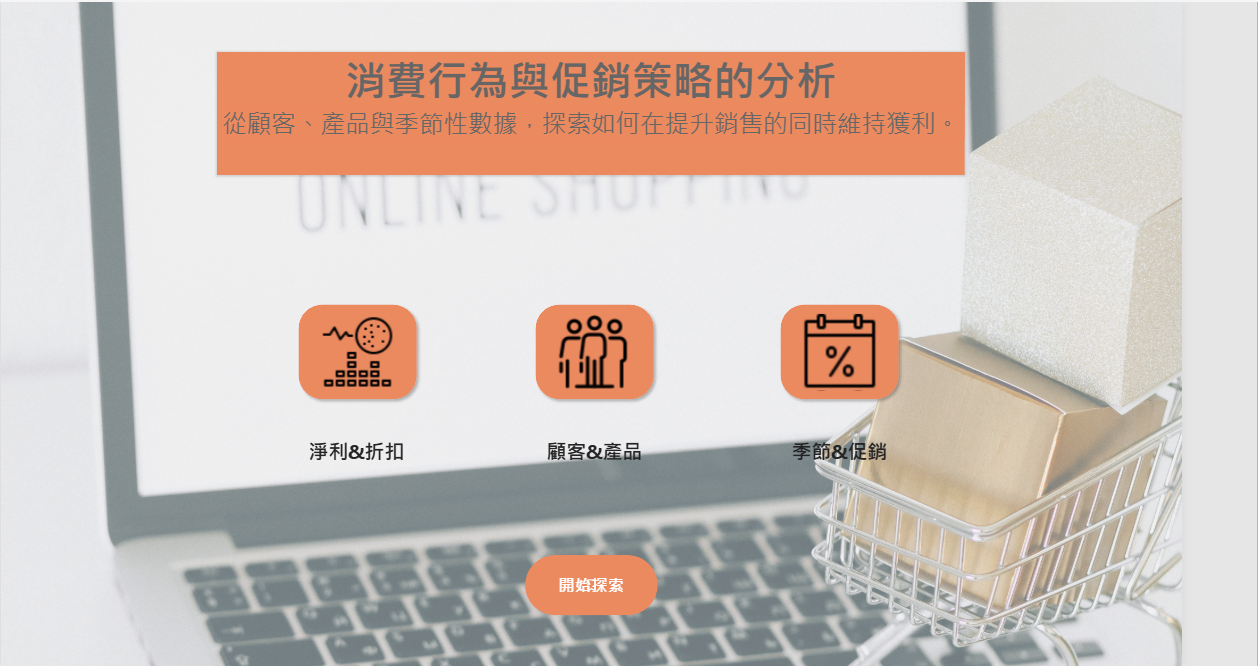
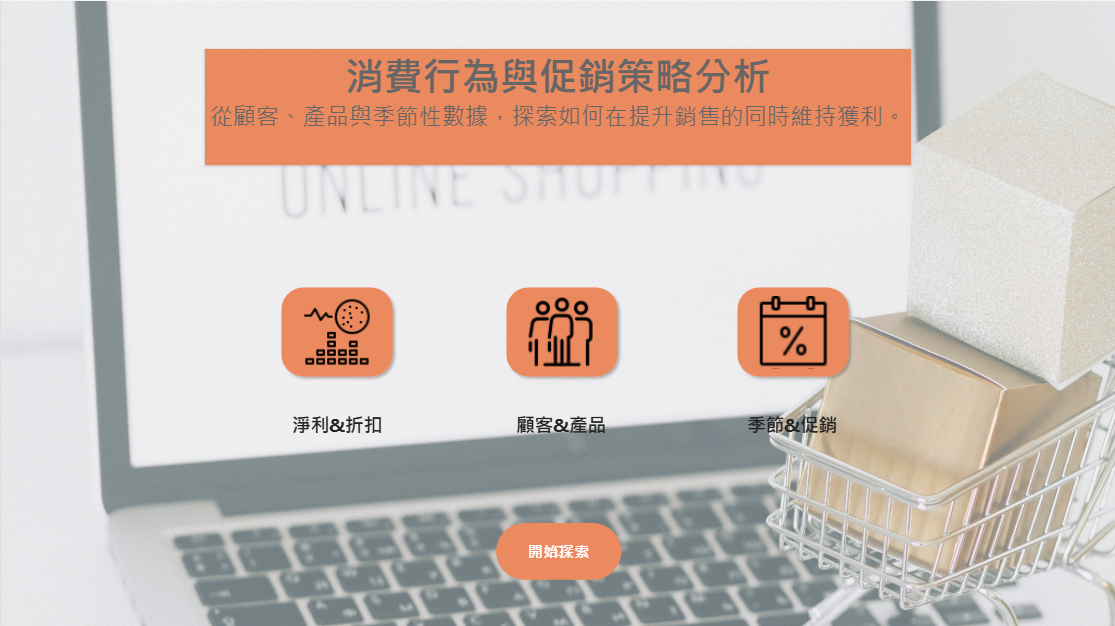
project commit

diff --git a/pages/projects.py b/pages/projects.py
@@ -4,7 +4,7 @@ st.title("作品集", icon=":material/business_center:")
 st.markdown("精選資料分析與商業智慧專案。")
 
 with st.container(border=True):
-	st.subheader("Contoso Promotion Analysis")
+	st.subheader("消費行為與促銷策略分析/Contoso Promotion Analysis")
 	st.markdown(
 		"分析折扣促銷對企業淨利與顧客消費行為之影響，使用 Power BI 建立互動式商業分析儀表板。"
 	)

diff --git a/pages/contoso_project.py b/pages/contoso_project.py
@@ -50,7 +50,7 @@ IMAGE_NOTES = [
 	),
 	(
 		"11｜獲利貢獻檢視",
-		"回到淨利與獲利貢獻，評估促銷帶來的營收變化是否伴隨獲利改善，"
+		"回到淨利與獲利貢獻，評估促銷帶來的營收變化是否伴隨獲利改善。"
 	),
 	(
 		"12｜互動分析與明細",
